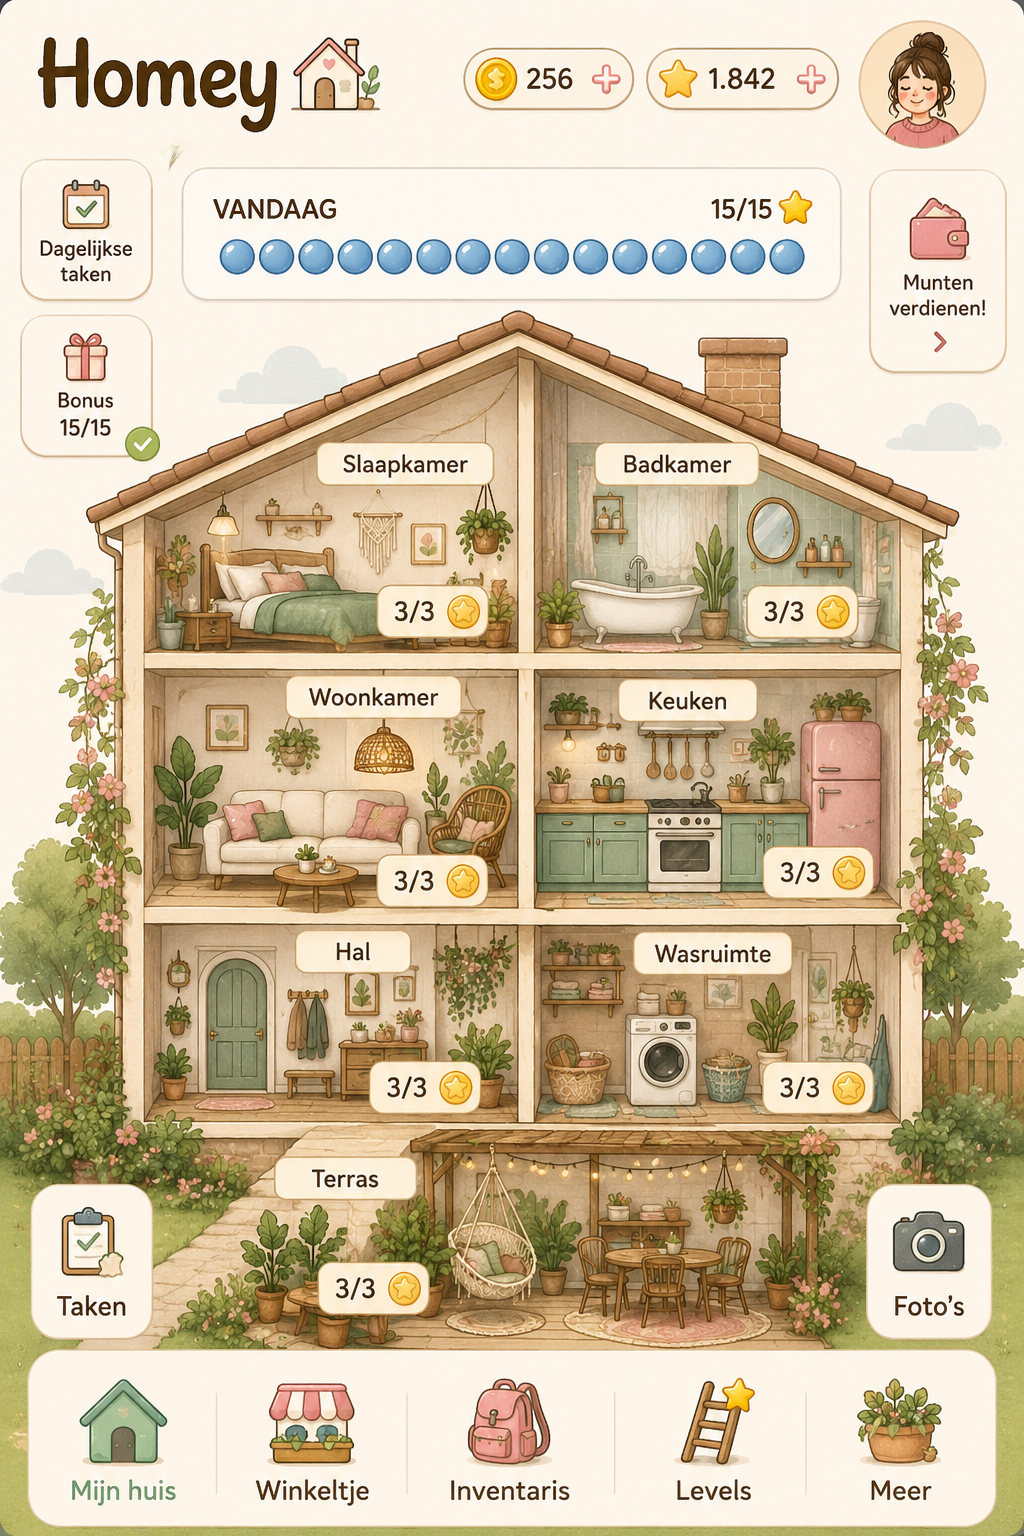
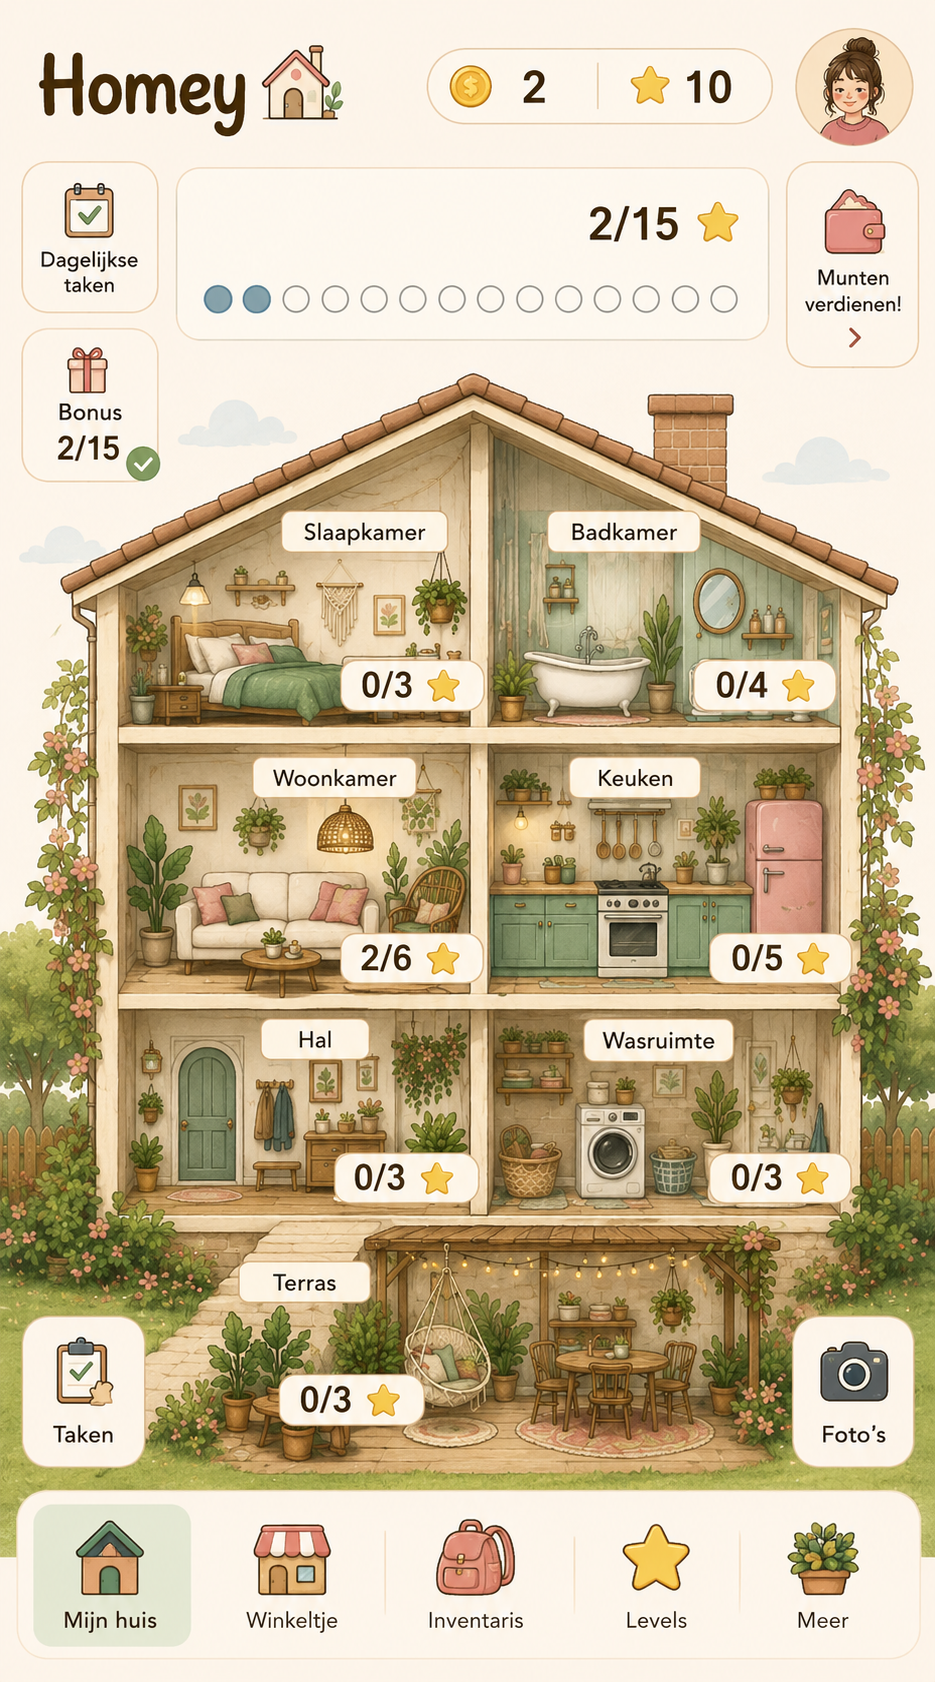
Add files via upload

diff --git a/style.css b/style.css
@@ -10,17 +10,28 @@
 .panel{position:absolute;inset:0;background:#fffaf1;padding:12px 12px 78px;overflow-y:auto}.panel[hidden]{display:none}.overview-head{height:92px;position:relative}.overview-title{text-align:center;padding-top:2px}.overview-title h1{display:inline;margin:0 7px;font-family:'Segoe Print','Bradley Hand','Comic Sans MS',cursive;font-size:34px;font-weight:500}.overview-title>span{font-size:18px}.overview-title small{display:block;font-size:14px;margin-top:-4px}.live-stats{display:grid;grid-template-columns:repeat(3,1fr);gap:8px;margin:0 0 9px}.live-stats>div{height:68px;background:#fff;border:1px solid #eadbc8;border-radius:16px;display:grid;grid-template-columns:auto auto;justify-content:center;align-content:center;column-gap:5px}.live-stats b{font-size:22px}.live-stats small{grid-column:1/3;text-align:center;font-size:10px}.room-cards{display:flex;flex-direction:column;gap:8px;padding-bottom:4px}.room-card{min-height:104px;width:100%;border:1px solid #eadbc8;border-radius:18px;background:#fff;display:grid;grid-template-columns:130px 1fr 34px;align-items:center;padding:5px;text-align:left}.room-card>img{width:122px;height:92px;object-fit:cover;border-radius:13px}.room-card-main{padding:0 8px}.room-card-main strong{display:block;font-size:18px}.room-card-main small{display:block;font-size:11px;margin:5px 0}.room-card.locked{filter:grayscale(.75);background:#f7f5f1}.room-arrow{font-size:30px;text-align:center}.mini-traffic{position:relative;display:grid;grid-template-columns:repeat(12,1fr);gap:3px;height:7px;margin-top:10px}.mini-traffic .traffic-marker{width:17px;height:17px}.std-nav{position:sticky;left:0;right:0;bottom:-78px;height:68px;margin:10px -12px -78px;background:#fffaf1;border-top:1px solid #eadbc8;display:grid;grid-template-columns:repeat(5,1fr);z-index:20}.std-nav button{border:0;background:transparent;padding:0;overflow:hidden}.std-nav button.selected{background:#dfead3}.std-nav img{width:100%;height:100%;object-fit:cover}.room-head{height:118px}.room-title-wrap{top:0}.room-progress-copy{display:flex;justify-content:space-between}.tasks{gap:7px}.task{min-height:88px;grid-template-columns:92px 1fr 48px 34px}.task img{width:84px;height:74px}.task-nav{display:none}@media(max-width:390px){.room-card{grid-template-columns:108px 1fr 28px}.room-card>img{width:100px;height:80px}.overview-title h1{font-size:29px}.task{grid-template-columns:76px 1fr 42px 30px;min-height:80px}.task img{width:70px;height:66px}}
 
 .traffic-marker.red{background:#dd2e24;box-shadow:0 0 0 1px #b8241d}.traffic-marker.orange{background:#f39a1d;box-shadow:0 0 0 1px #d77f10}.traffic-marker.green{background:#74ad45;box-shadow:0 0 0 1px #5b9134}
-/* v13: alleen de tellers op het originele huis zijn live gemaakt */
-.home-live{position:absolute;z-index:5;top:3.55%;height:3.9%;display:flex;align-items:center;justify-content:center;background:#fff8ec;color:#34281e;font-weight:700;font-size:clamp(17px,4.5vw,25px);line-height:1;border-radius:16px;pointer-events:none}
-.home-coins-live{left:51.7%;width:8.3%}
-.home-points-live{left:70.2%;width:10.2%}
-.home-today-live{position:absolute;z-index:5;left:18.5%;right:18.5%;top:11.0%;height:8.05%;background:#fff9ef;border-radius:12px;pointer-events:none;padding:10px 24px 8px}
-.home-today-live>b{display:block;text-align:right;font-size:clamp(14px,3.7vw,21px);line-height:1.1}
-.home-ball-track{display:grid;grid-template-columns:repeat(15,1fr);gap:4px;margin-top:14px}
-.home-ball-track .home-ball{width:100%;aspect-ratio:1;border-radius:50%;background:#fff;border:1px solid #86a7b7;box-shadow:none}
-.home-ball-track .home-ball.filled{background:linear-gradient(#9dcef0,#6fa7d2);border-color:#5c8eb4}
-.home-bonus-live{position:absolute;z-index:5;left:3.7%;top:24.6%;width:10.7%;height:4.4%;background:#fff8ec;display:flex;flex-direction:column;align-items:center;justify-content:center;pointer-events:none;color:#3d2c20;font-size:clamp(10px,2.8vw,14px);line-height:1.05}
-.home-bonus-live b{font-size:clamp(14px,3.4vw,20px);margin-top:3px}
-.home-room-count{position:absolute;z-index:5;height:3.05%;min-width:10.8%;padding:0 10px;display:flex;align-items:center;justify-content:center;background:#fff7e8;border:1px solid #d7b36b;border-radius:14px;color:#3b2b20;font-weight:700;font-size:clamp(13px,3.8vw,21px);pointer-events:none;box-shadow:0 1px 2px #6c4e2718}
-.home-room-count::after{content:' ⭐';font-size:.9em;margin-left:3px}
-.hrc-bed{left:37.0%;top:38.25%}.hrc-bath{left:73.0%;top:38.25%}.hrc-living{left:37.0%;top:55.25%}.hrc-kitchen{left:74.8%;top:55.25%}.hrc-hall{left:36.2%;top:69.2%}.hrc-laundry{left:74.8%;top:69.2%}.hrc-terrace{left:31.2%;top:82.15%}
+
+/* v14: het goedgekeurde huis blijft visueel vast; alleen live waarden liggen erboven. */
+.home-screen{aspect-ratio:935/1682;background:#fbf4e8}
+.home-screen .screen-img{object-fit:contain;width:100%;height:100%}
+.home-live{position:absolute;inset:0;pointer-events:none;z-index:5}
+.home-live-number,.home-live-balls,.home-live-bonus,.home-room-count{position:absolute;display:flex;align-items:center;justify-content:center;font-family:Arial,sans-serif;font-weight:700;color:#2c2118;background:#fff8e9}
+.home-live-number{top:3.15%;height:3.25%;font-size:clamp(18px,5vw,28px)}
+.home-live-coins{left:53.1%;width:7.2%}
+.home-live-points{left:72.1%;width:8.2%}
+.home-live-balls{left:60.4%;top:11.45%;width:12.8%;height:3.25%;font-size:clamp(18px,5.4vw,30px)}
+.home-live-balltrack{position:absolute;left:21.35%;top:16.85%;width:56.1%;height:2.55%;display:grid;grid-template-columns:repeat(15,1fr);gap:1.05%;align-items:center;background:#fff8e9;padding:0 .25%;border-radius:99px}
+.home-live-balltrack .home-ball{width:100%;aspect-ratio:1;border-radius:50%;background:#fffaf1;border:1.4px solid #839393}
+.home-live-balltrack .home-ball.filled{background:#83b9d7;border-color:#5d98ba}
+.home-live-bonus{left:5.8%;top:25.45%;width:11.6%;height:3.15%;font-size:clamp(15px,4.2vw,24px)}
+.home-room-count{height:3.5%;font-size:clamp(16px,4.9vw,27px);border-radius:12px}
+.hc-bed{left:35.8%;top:39.15%;width:8.7%}.hc-bath{left:74.5%;top:39.15%;width:8.7%}
+.hc-living{left:35.8%;top:55.2%;width:8.7%}.hc-kitchen{left:77.0%;top:55.2%;width:8.7%}
+.hc-hall{left:35.8%;top:68.25%;width:8.7%}.hc-laundry{left:77.0%;top:68.25%;width:8.7%}
+.hc-terrace{left:30.9%;top:81.4%;width:8.7%}
+/* klikzones exact over het goedgekeurde huis */
+.r-bed{left:7%;top:29%;width:44%;height:14%}.r-bath{left:51%;top:29%;width:44%;height:14%}
+.r-living{left:7%;top:43%;width:44%;height:16%}.r-kitchen{left:51%;top:43%;width:44%;height:16%}
+.r-hall{left:7%;top:59%;width:44%;height:13%}.r-laundry{left:51%;top:59%;width:44%;height:13%}
+.r-terrace{left:16%;top:72%;width:70%;height:14%}
+.home-nav{left:2.5%;right:2.5%;bottom:1.25%;height:9.6%}

diff --git a/app.js b/app.js
@@ -1,9 +1,10 @@
 const roomTasks={Woonkamer:[['Stof de salontafel af','Elke 3 dagen'],['Stofzuig het tapijt','Elke 3 dagen'],['Klop de kussens op','Elke 5 dagen'],['Geef de planten water','Elke 2 dagen'],['Maak de ramen schoon','Elke 7 dagen'],['Ruim rondslingerend spul op','Elke dag']],Keuken:[['Maak het aanrecht schoon','Elke dag'],['Ruim de tafel af','Elke dag'],['Controleer de vaatwasser','Elke dag'],['Maak de kookplaat schoon','Elke 3 dagen'],['Dweil de vloer','Elke 5 dagen']],Badkamer:[['Maak de wastafel schoon','Elke 2 dagen'],['Vervang de handdoeken','Elke 3 dagen'],['Maak de spiegel schoon','Elke 5 dagen'],['Maak bad en douche schoon','Elke 7 dagen']],Slaapkamer:[['Maak het bed op','Elke dag'],['Ruim het nachtkastje op','Elke 3 dagen'],['Leg kleding weg','Elke dag']],Hal:[['Ruim schoenen op','Elke dag'],['Hang jassen netjes','Elke dag'],['Maak de vloer vrij','Elke dag']],Wasruimte:[['Sorteer de was','Elke dag'],['Maak de machine leeg','Elke dag'],['Ruim de wasmand op','Elke dag']],Terras:[['Maak de tafel netjes','Elke 3 dagen'],['Leg de kussens goed','Elke dag'],['Controleer de planten','Elke 2 dagen']]};
 const roomIcons={Woonkamer:'🛋',Keuken:'🍲',Badkamer:'🛁',Slaapkamer:'🛏',Hal:'🚪',Wasruimte:'🧺',Terras:'🌿'};const roomImgs={Woonkamer:'task-3.png',Keuken:'task-1.png',Badkamer:'task-4.png',Slaapkamer:'task-5.png',Hal:'task-6.png',Wasruimte:'task-2.png',Terras:'task-4.png'};
 function localDay(){const d=new Date();return `${d.getFullYear()}-${String(d.getMonth()+1).padStart(2,'0')}-${String(d.getDate()).padStart(2,'0')}`}
-let state=JSON.parse(localStorage.getItem('homey-v11')||localStorage.getItem('homey-v10')||localStorage.getItem('homey-v9')||localStorage.getItem('homey-v8')||'null')||{points:0,coins:0,day:localDay(),done:{},bonusAwarded:false};if(state.day!==localDay()){state.day=localDay();state.done={};state.bonusAwarded=false}let currentRoom='Woonkamer';const $=id=>document.getElementById(id);const toast=$('toast');
-function save(){localStorage.setItem('homey-v11',JSON.stringify(state))}function count(){return Object.values(state.done||{}).filter(Boolean).length}function msg(t){toast.textContent=t;toast.classList.add('show');clearTimeout(window.tt);window.tt=setTimeout(()=>toast.classList.remove('show'),1400)}
-function renderLive(){const n=Math.min(15,count());document.querySelectorAll('[data-points]').forEach(x=>x.textContent=state.points||0);document.querySelectorAll('[data-coins]').forEach(x=>x.textContent=state.coins||0);document.querySelectorAll('[data-balls]').forEach(x=>x.textContent=n);document.querySelectorAll('.to-bonus').forEach(x=>x.textContent=Math.max(0,15-n));document.querySelectorAll('.balls-track').forEach(t=>t.innerHTML=Array.from({length:15},(_,i)=>`<span class="ball ${i<n?'filled':''}"></span>`).join(''));document.querySelectorAll('[data-home-coins]').forEach(x=>x.textContent=state.coins||0);document.querySelectorAll('[data-home-points]').forEach(x=>x.textContent=state.points||0);document.querySelectorAll('[data-home-balls]').forEach(x=>x.textContent=n);document.querySelectorAll('[data-home-bonus]').forEach(x=>x.textContent=n);const hb=document.getElementById('homeBallTrack');if(hb)hb.innerHTML=Array.from({length:15},(_,i)=>`<span class="home-ball ${i<n?'filled':''}"></span>`).join('');document.querySelectorAll('[data-home-room]').forEach(x=>{const r=x.dataset.homeRoom,total=(roomTasks[r]||[]).length;x.textContent=`${roomDone(r)}/${total}`})}
+let state=JSON.parse(localStorage.getItem('homey-v14')||localStorage.getItem('homey-v13')||localStorage.getItem('homey-v12')||localStorage.getItem('homey-v11')||localStorage.getItem('homey-v10')||localStorage.getItem('homey-v9')||localStorage.getItem('homey-v8')||'null')||{points:0,coins:0,day:localDay(),done:{},bonusAwarded:false};if(state.day!==localDay()){state.day=localDay();state.done={};state.bonusAwarded=false}let currentRoom='Woonkamer';const $=id=>document.getElementById(id);const toast=$('toast');
+function save(){localStorage.setItem('homey-v14',JSON.stringify(state))}function count(){return Object.values(state.done||{}).filter(Boolean).length}function msg(t){toast.textContent=t;toast.classList.add('show');clearTimeout(window.tt);window.tt=setTimeout(()=>toast.classList.remove('show'),1400)}
+function renderHome(){const n=Math.min(15,count());const hp=$('homePoints'),hc=$('homeCoins'),hb=$('homeBalls'),hbonus=$('homeBonus'),track=$('homeBallTrack');if(hp)hp.textContent=state.points||0;if(hc)hc.textContent=state.coins||0;if(hb)hb.textContent=`${n}/15`;if(hbonus)hbonus.textContent=`${n}/15`;if(track)track.innerHTML=Array.from({length:15},(_,i)=>`<span class="home-ball ${i<n?'filled':''}"></span>`).join('');document.querySelectorAll('[data-home-room]').forEach(el=>{const r=el.dataset.homeRoom;const total=(roomTasks[r]||[]).length;el.textContent=`${roomDone(r)}/${total}`})}
+function renderLive(){renderHome();const n=Math.min(15,count());document.querySelectorAll('[data-points]').forEach(x=>x.textContent=state.points||0);document.querySelectorAll('[data-coins]').forEach(x=>x.textContent=state.coins||0);document.querySelectorAll('[data-balls]').forEach(x=>x.textContent=n);document.querySelectorAll('.to-bonus').forEach(x=>x.textContent=Math.max(0,15-n));document.querySelectorAll('.balls-track').forEach(t=>t.innerHTML=Array.from({length:15},(_,i)=>`<span class="ball ${i<n?'filled':''}"></span>`).join(''))}
 function roomDone(r){return (roomTasks[r]||[]).filter((_,i)=>state.done[r+'-'+i]).length}function traffic(done,total){let s='';for(let i=0;i<12;i++)s+=`<span class="traffic-seg ${i<3?'red':i<6?'orange':'green'}"></span>`;let left=total?Math.max(2,Math.min(98,done/total*100)):2;let ratio=total?done/total:0;let marker=ratio<0.25?'red':ratio<0.5?'orange':'green';return s+`<span class="traffic-marker ${marker}" style="left:${left}%"></span>`}
 function renderOverview(){const order=['Woonkamer','Keuken','Badkamer','Slaapkamer','Wasruimte','Terras'];$('roomCards').innerHTML=order.map((r,idx)=>{const total=roomTasks[r].length,done=roomDone(r),locked=idx>=3;return `<button class="room-card ${locked?'locked':''}" data-open-room="${r}"><img src="${roomImgs[r]}"><span class="room-card-main"><strong>${r}</strong>${locked?`<small>🔒 Vrijspelen op een 5e levelmoment</small>`:`<small>${total} taken</small><span class="mini-traffic">${traffic(done,total)}</span>`}</span><span class="room-arrow">${locked?'🔒':'›'}</span></button>`}).join('');renderLive()}
 function openOverview(){hideAll();$('overview').hidden=false;renderOverview()}

diff --git a/index.html b/index.html
@@ -1,16 +1,19 @@
 <!doctype html><html lang="nl"><head><meta charset="utf-8"><meta name="viewport" content="width=device-width,initial-scale=1,viewport-fit=cover"><meta name="theme-color" content="#f7efe5"><title>Homey</title><link rel="manifest" href="manifest.json"><link rel="stylesheet" href="style.css"></head><body><div class="app">
-<main id="home" class="screen active"><img class="screen-img" src="homey-house.png" alt="Homey huis">
-<div class="home-live home-coins-live" data-home-coins>0</div>
-<div class="home-live home-points-live" data-home-points>0</div>
-<div class="home-today-live"><b><span data-home-balls>0</span>/15 ⭐</b><div id="homeBallTrack" class="home-ball-track"></div></div>
-<div class="home-bonus-live"><span>Bonus</span><b><span data-home-bonus>0</span>/15</b></div>
-<div class="home-room-count hrc-bed" data-home-room="Slaapkamer"></div>
-<div class="home-room-count hrc-bath" data-home-room="Badkamer"></div>
-<div class="home-room-count hrc-living" data-home-room="Woonkamer"></div>
-<div class="home-room-count hrc-kitchen" data-home-room="Keuken"></div>
-<div class="home-room-count hrc-hall" data-home-room="Hal"></div>
-<div class="home-room-count hrc-laundry" data-home-room="Wasruimte"></div>
-<div class="home-room-count hrc-terrace" data-home-room="Terras"></div>
+<main id="home" class="screen active home-screen"><img class="screen-img" src="homey-house.png" alt="Homey huis">
+<div class="home-live" aria-hidden="true">
+  <span class="home-live-number home-live-coins" id="homeCoins">0</span>
+  <span class="home-live-number home-live-points" id="homePoints">0</span>
+  <span class="home-live-balls" id="homeBalls">0/15</span>
+  <div class="home-live-balltrack" id="homeBallTrack"></div>
+  <span class="home-live-bonus" id="homeBonus">0/15</span>
+  <span class="home-room-count hc-bed" data-home-room="Slaapkamer">0/3</span>
+  <span class="home-room-count hc-bath" data-home-room="Badkamer">0/4</span>
+  <span class="home-room-count hc-living" data-home-room="Woonkamer">0/6</span>
+  <span class="home-room-count hc-kitchen" data-home-room="Keuken">0/5</span>
+  <span class="home-room-count hc-hall" data-home-room="Hal">0/3</span>
+  <span class="home-room-count hc-laundry" data-home-room="Wasruimte">0/3</span>
+  <span class="home-room-count hc-terrace" data-home-room="Terras">0/3</span>
+</div>
 <button class="room r-bed" data-overview="Slaapkamer"></button><button class="room r-bath" data-overview="Badkamer"></button><button class="room r-living" data-overview="Woonkamer"></button><button class="room r-kitchen" data-overview="Keuken"></button><button class="room r-hall" data-overview="Hal"></button><button class="room r-laundry" data-overview="Wasruimte"></button><button class="room r-terrace" data-overview="Terras"></button><div class="home-nav"><button data-go="home"></button><button data-go="shop"></button><button data-go="inventory"></button><button data-go="levels"></button><button data-go="more"></button></div></main>
 <main id="overview" class="panel" hidden><header class="overview-head"><button class="round-back" data-go="home">←</button><div class="overview-title"><span>🌿</span><h1>Mijn huis ♡</h1><span>🌿</span><small>Vandaag</small></div></header><div class="live-stats"><div>⭐ <b data-points>0</b><small>punten</small></div><div>🪙 <b data-coins>0</b><small>munten</small></div><div><span class="blue-dot"></span> <b><i data-balls>0</i>/15</b><small>bollen vandaag</small></div></div><div class="bonusline"><div class="balls-track"></div><p><span class="to-bonus">15</span> bollen tot bonus! &nbsp; <strong>+15 punten</strong> 🎁</p></div><div id="roomCards" class="room-cards"></div><nav class="std-nav"><button data-go="home" class="selected"><img src="nav-home.png"></button><button data-go="shop"><img src="nav-shop.png"></button><button data-go="inventory"><img src="nav-inventory.png"></button><button data-go="levels"><img src="nav-levels.png"></button><button data-go="more"><img src="nav-more.png"></button></nav></main>
 <main id="roomScreen" class="panel" hidden><header class="room-head"><button id="roomBack" class="round-back">←</button><div class="room-title-wrap"><div class="room-icon" id="roomIcon">🛋</div><div class="script-title"><span>🌿</span><h1 id="roomTitle"></h1><span>🌿</span></div></div></header><div class="live-stats"><div>⭐ <b data-points>0</b><small>punten</small></div><div>🪙 <b data-coins>0</b><small>munten</small></div><div><span class="blue-dot"></span> <b><i data-balls>0</i>/15</b><small>bollen vandaag</small></div></div><div class="bonusline"><div class="balls-track"></div><p><span class="to-bonus">15</span> bollen tot bonus! &nbsp; <strong>+15 punten</strong> 🎁</p></div><div class="room-progress"><div class="room-progress-copy"><strong id="taskProgressText"></strong><b id="taskPct"></b></div><div id="taskProgressBar" class="traffic-progress"></div></div><div id="tasks" class="tasks"></div><nav class="std-nav"><button data-go="home" class="selected"><img src="nav-home.png"></button><button data-go="shop"><img src="nav-shop.png"></button><button data-go="inventory"><img src="nav-inventory.png"></button><button data-go="levels"><img src="nav-levels.png"></button><button data-go="more"><img src="nav-more.png"></button></nav></main>
